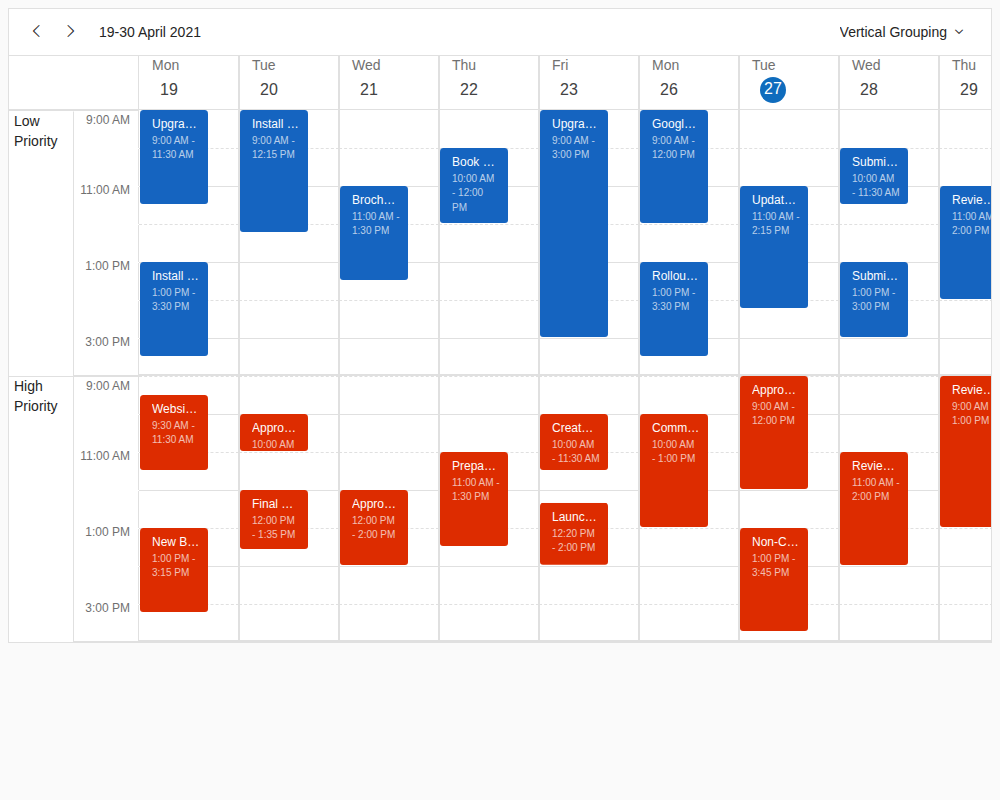
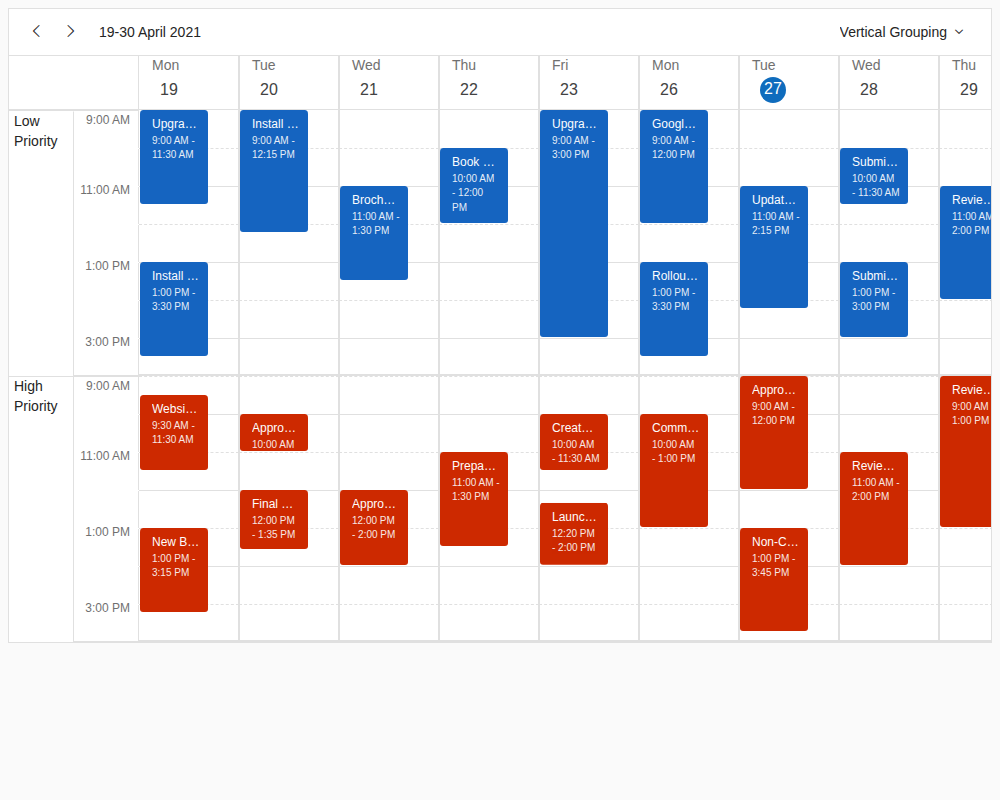
Scheduler - Let the VirtualScrolling demo pick the appointment text color and update etalons

diff --git a/apps/demos/Demos/Scheduler/VirtualScrolling/Angular/app/app.component.css b/apps/demos/Demos/Scheduler/VirtualScrolling/Angular/app/app.component.css
@@ -8,8 +8,3 @@
 ::ng-deep .dx-scheduler-date-table .dx-scheduler-cell-sizes-horizontal {
   width: 100px;
 }
-
-::ng-deep .dx-scheduler-appointment-title,
-::ng-deep .dx-scheduler-appointment-content-date {
-  color: #242424;
-}

diff --git a/apps/demos/Demos/Scheduler/VirtualScrolling/React/styles.css b/apps/demos/Demos/Scheduler/VirtualScrolling/React/styles.css
@@ -5,8 +5,3 @@
 #scheduler .dx-scheduler-cell-sizes-horizontal {
   width: 100px;
 }
-
-#scheduler .dx-scheduler-appointment-title,
-#scheduler .dx-scheduler-appointment-content-date {
-  color: #242424;
-}

diff --git a/apps/demos/Demos/Scheduler/VirtualScrolling/ReactJs/styles.css b/apps/demos/Demos/Scheduler/VirtualScrolling/ReactJs/styles.css
@@ -5,8 +5,3 @@
 #scheduler .dx-scheduler-cell-sizes-horizontal {
   width: 100px;
 }
-
-#scheduler .dx-scheduler-appointment-title,
-#scheduler .dx-scheduler-appointment-content-date {
-  color: #242424;
-}

diff --git a/apps/demos/Demos/Scheduler/VirtualScrolling/Vue/styles.css b/apps/demos/Demos/Scheduler/VirtualScrolling/Vue/styles.css
@@ -5,8 +5,3 @@
 #scheduler .dx-scheduler-cell-sizes-horizontal {
   width: 100px;
 }
-
-#scheduler .dx-scheduler-appointment-title,
-#scheduler .dx-scheduler-appointment-content-date {
-  color: #242424;
-}

diff --git a/apps/demos/Demos/Scheduler/VirtualScrolling/jQuery/styles.css b/apps/demos/Demos/Scheduler/VirtualScrolling/jQuery/styles.css
@@ -5,8 +5,3 @@
 #scheduler .dx-scheduler-cell-sizes-horizontal {
   width: 100px;
 }
-
-#scheduler .dx-scheduler-appointment-title,
-#scheduler .dx-scheduler-appointment-content-date {
-  color: #242424;
-}
